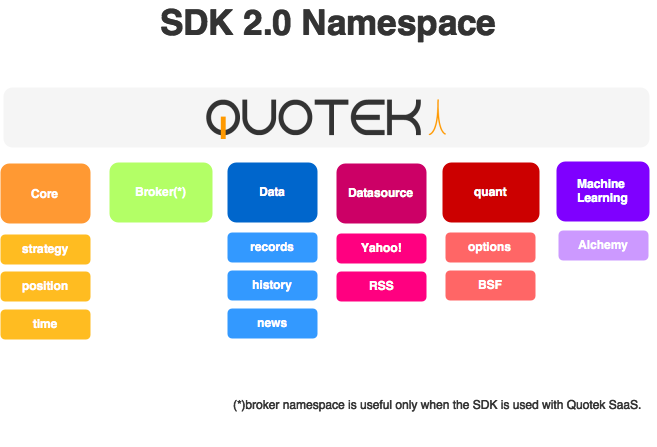
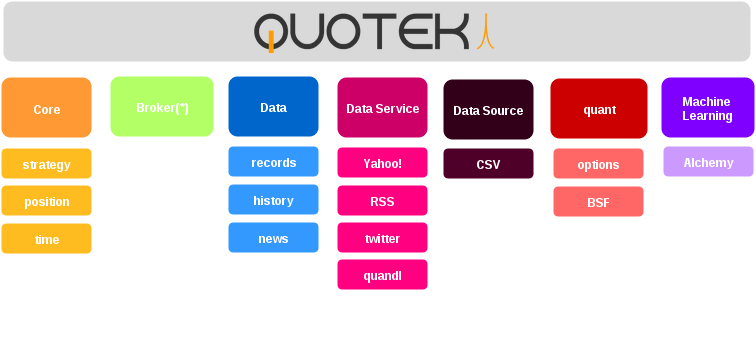
Changes in SDK documentation.

diff --git a/doxygen/breathe/source/_templates/layout.html b/doxygen/breathe/source/_templates/layout.html
@@ -88,6 +88,12 @@
 
   <script type="text/javascript">
 
+    $.each( $('.breathe-sectiondef'), function(index,v) {
+
+      if ( $(this).hasClass('container') ) $(this).removeClass('container');
+
+     } );
+
     $("#header-pbtn").click(function() { product_dropdown_toggle(); });
 
     function product_dropdown_toggle() {

diff --git a/src/datasources/quandl.hpp b/src/datasources/quandl.hpp
@@ -86,7 +86,12 @@ namespace quotek {
 
       public:
 
-        /** quandl class constructor. */
+        /** quandl class constructor. 
+         *  @param api_key Account API Key provided by quandl.
+         *  
+         *  Note: you can add an empty api_key "" but then are limited to 50 queries/day.
+         */
+         
       	quandl(std::string api_key);
 
       	/** quandl class destructor. */
@@ -114,9 +119,6 @@ namespace quotek {
          *  @param dataset dataset in database to get data from.
          *  @param format return format needed. Can be "csv", "json" and "xml".
          *  @return the resulting dataset returned by quandl API, as a string.
-         *  
-         *  Optional Parameters:
-         *
          *  @param start_date YYYY-mm-dd string representation of the first day of data you want in the set.
          *  @param end_date YYYY-mm-dd string representation of the last day of data you want in the set.
          *  @param collapse aggregation of your data. Can be "daily", "weekly", "monthly", "quarterly", "annual".
@@ -148,9 +150,6 @@ namespace quotek {
          *  @param database database to query prices from.
          *  @param dataset dataset to query prices from.
          *  @return a quotek::data::records container, containing all the datas of the set.
-         *
-         *  Optional Parameters:
-         *
          *  @param start_date YYYY-mm-dd string representation of the first day of cotation you want in the set.
          *  @param send_date YYYY-mm-dd string representation of the last day of cotation you want in the set.
          *  @param collapse aggregation level of your data. Can be "daily", "weekly", "monthly", "quarterly", "annual".
@@ -169,9 +168,6 @@ namespace quotek {
          *  @param database database to query prices from.
          *  @param dataset dataset to query prices from.
          *  @return a vector of quotek::data::history objects, containing all the datas of the set.
-         *
-         *  Optional Parameters:
-         *
          *  @param start_date YYYY-mm-dd string representation of the first day of cotation you want in the set.
          *  @param send_date YYYY-mm-dd string representation of the last day of cotation you want in the set.
          *  @param collapse aggregation level of your data. Can be "daily", "weekly", "monthly", "quarterly", "annual".
@@ -190,9 +186,6 @@ namespace quotek {
          *  @param dataset dataset to get data from.
          *  @param column_num column number to fetch.
          *  @return a list of float values.
-         *  
-         *  Optional Parameters:
-         *  
          *  @param start_date YYYY-mm-dd string representation of the first day of data you want in the set.
          *  @param send_date YYYY-mm-dd string representation of the last day of data you want in the set.
          *  @param collapse aggregation level of your data. Can be "daily", "weekly", "monthly", "quarterly", "annual".

diff --git a/doxygen/breathe/source/install.rst b/doxygen/breathe/source/install.rst
@@ -12,33 +12,13 @@ Download and unzip the quotek SDK archive file. Then right-click on the "install
 file which is located at the root of the decompressed directory, then finally click on "Run as Administrator". The SDK will be installed in 
 **C:\\Program Files\\quotek\\sdk**, and ready to go.
 
-Building & Linking
-^^^^^^^^^^^^^^^^^^ 
+Visual Studio Setup
+^^^^^^^^^^^^^^^^^^^
 
-When using Quotek SDK on windows, The first thing you have to do is to let your IDE / Compiling Toolchain know where the Quotek SDK headers and libraries are located.
-
-For Visual studio 2015, the procedure is the following:
-
-* Start a new, empty C++ Project.
-* go to Project => Properties.
-* Select "VC++ Directories".
-* Modify the Include Directories property to add **C:\\Program Files\\quotek\\sdk\\include;** as include search path.
-* Modify the Library Directories property to add **C:\\Program Files\\quotek\\sdk\\lib;** as library search path.
-
-|
-.. image:: _static/img/vs15_screen1.png
-
-|
-* Go to Linker, then Inputs. 
-* Modify the Additional Dependancies property to add **"libcurl.lib;quotek.lib"** as additional dependancies.
-|
-
-.. image:: _static/img/vs15_screen2.png
-|
-
-Then you are good to go, you can start your project and compile it without any trouble.
-
-**Note:** You will have to perform this operation for evey new visual studio project you start with quotek SDK.
+Just go to **C:\\Program Files\\quotek\\sdk\\helpers\\vstudio**, 
+then double click on the "Quotek.vsix" file. The SDK should now be installed with Visual Studio.
+If you start a new Project and go to "Visual C++" , you will see Quotek Project. Then Select it and
+start a new project: It's all good, you are now ready to code with quotek.
 
 Linux Install
 -------------
@@ -47,20 +27,20 @@ Download and unzip the quotek SDK archive file, and launch the "installer_linux.
 located at the root of the decompressed directory. All of the Quotek SDK will then be installed 
 in /opt/quotek/sdk. The libraries are located in **/opt/quotek/sdk/lib** and headers are in **/opt/quotek/sdk/include**.
 
-Dependancies
+Dependencies
 ^^^^^^^^^^^^
 
-În order to work properly on Linux, Quotek SDK needs libcurl as a dependancy. This is
+În order to work properly on Linux, Quotek SDK needs libcurl as a dependency. This is
 a very common package which is probably already installed on your system. In any case,
 the install procedure for libcurl is as follow:
 
 **For Debian/Ubuntu**
 
-``sudo apt-get install libcurl4``
+``sudo apt-get install libcurl4-openssl-dev``
 
 **For CentOS/Fedora**
 
-``sudo yum install libcurl``
+``sudo yum install libcurl-devel``
 
 Building & Linking
 ^^^^^^^^^^^^^^^^^^

diff --git a/doxygen/breathe/source/quandl.rst b/doxygen/breathe/source/quandl.rst
@@ -1,0 +1,48 @@
+Quandl 
+======
+
+.. image:: _static/img/quandl-logo.png
+    :align: left
+    :width: 200px
+    :class: qimg
+    :alt: Quandl data service Logo.
+|
+|
+|
+|
+|
+|
+Below lies the documentation of the Quotek SDK quandl API Client. With it will be able to enrich your algos with premium financial data, to later process them with the help of the other SDK functions. 
+
+You can go to https://www.quandl.com/ to signup for a Free account, and you can also check https://www.quandl.com/blog/ for extra information and resources on the API.
+
+
+
+.. doxygenclass:: quotek::datasource::quandl
+  :members:
+  :protected-members:
+  :private-members:
+
+
+Example
+-------
+
+You will find below and sample source code about how to use the Quotek's quandl client.
+
+  .. code-block:: c++
+
+    #include <quotek/quotek.hpp>
+    #include <quotek/datasource/quandl.hpp>
+    using namespace quotek::datasource;
+    using namespace quotek::data;
+
+    int main(int argc, char** argv) {
+
+      //creates a new quandl object
+      quandl qc("my-ApI-kEy");
+
+      /*fetches weekly aggregated values for the Facebook stock and 
+        stores it in a quotek::data::records container. */
+      records recs = qc.query_values("WIKI","FB","weekly");
+      return 0;
+    }

diff --git a/doxygen/breathe/source/data_sources.rst b/doxygen/breathe/source/data_sources.rst
@@ -6,7 +6,8 @@ Data Sources
 .. toctree::
    :hidden:
 
-   csv
+   quandl
    twitter
    yahoo
    rss
+   csv
